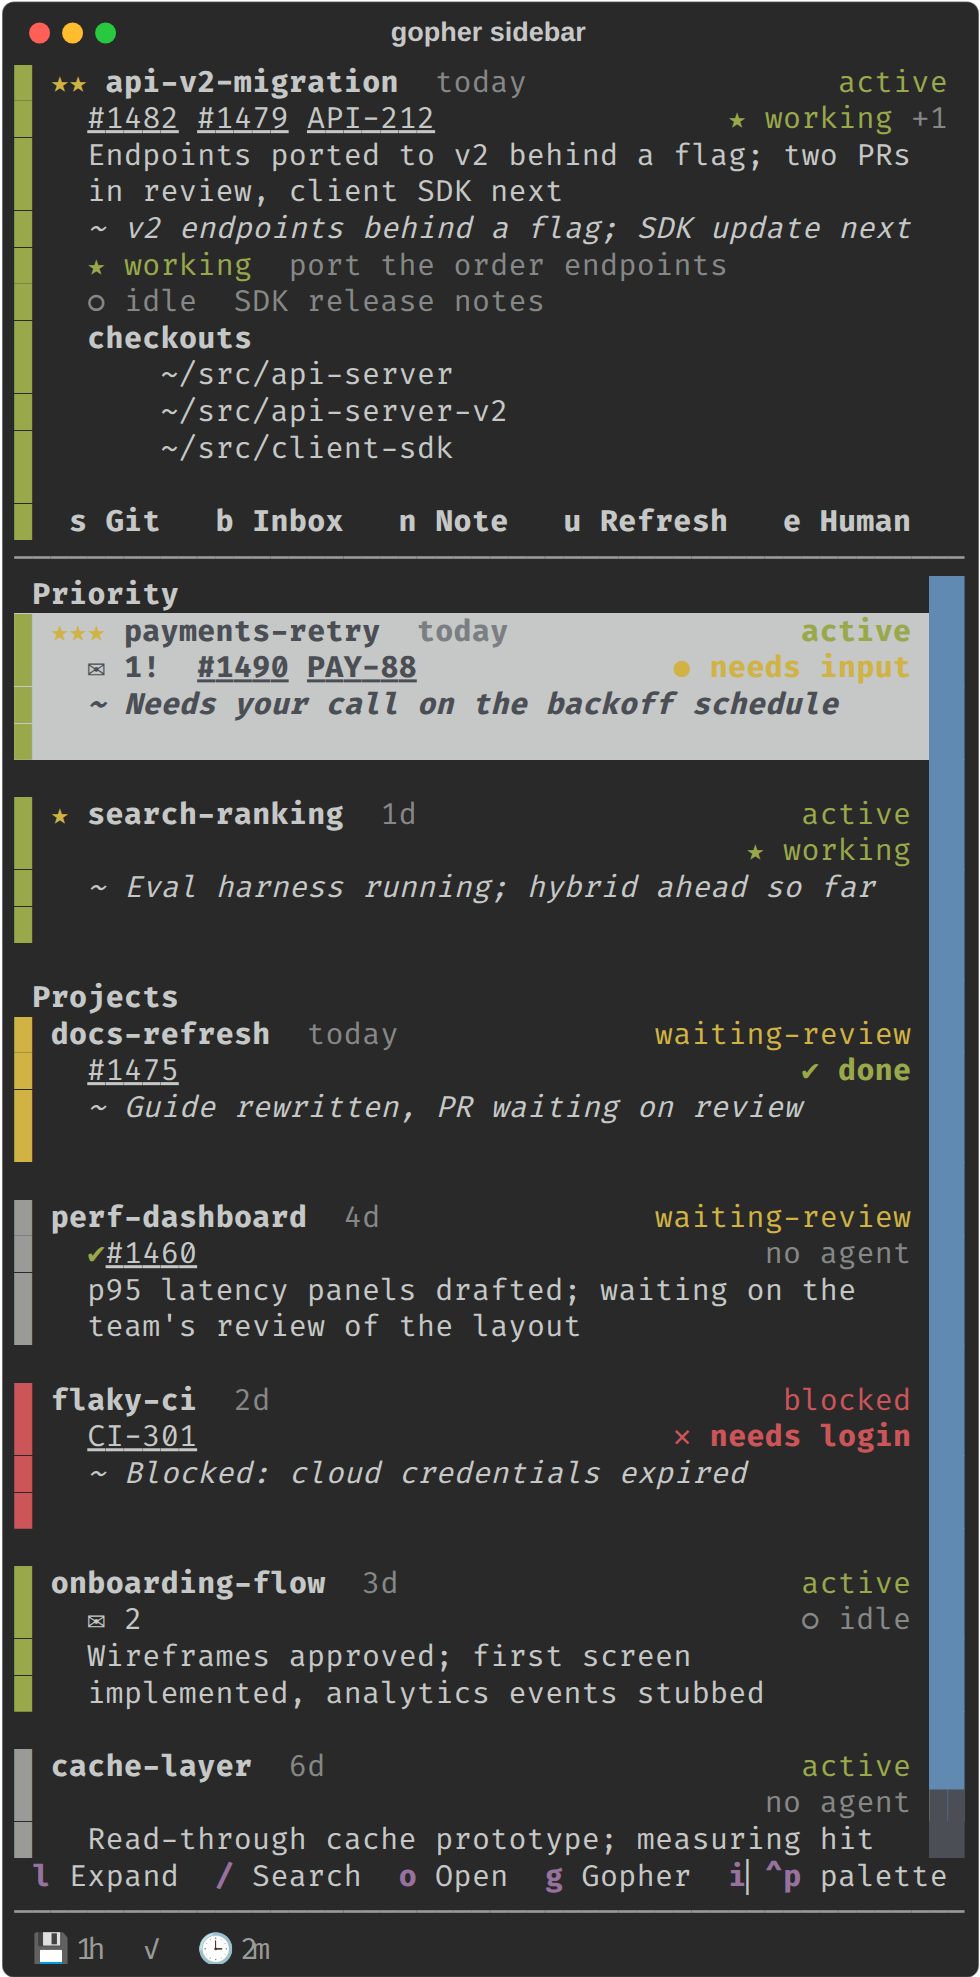
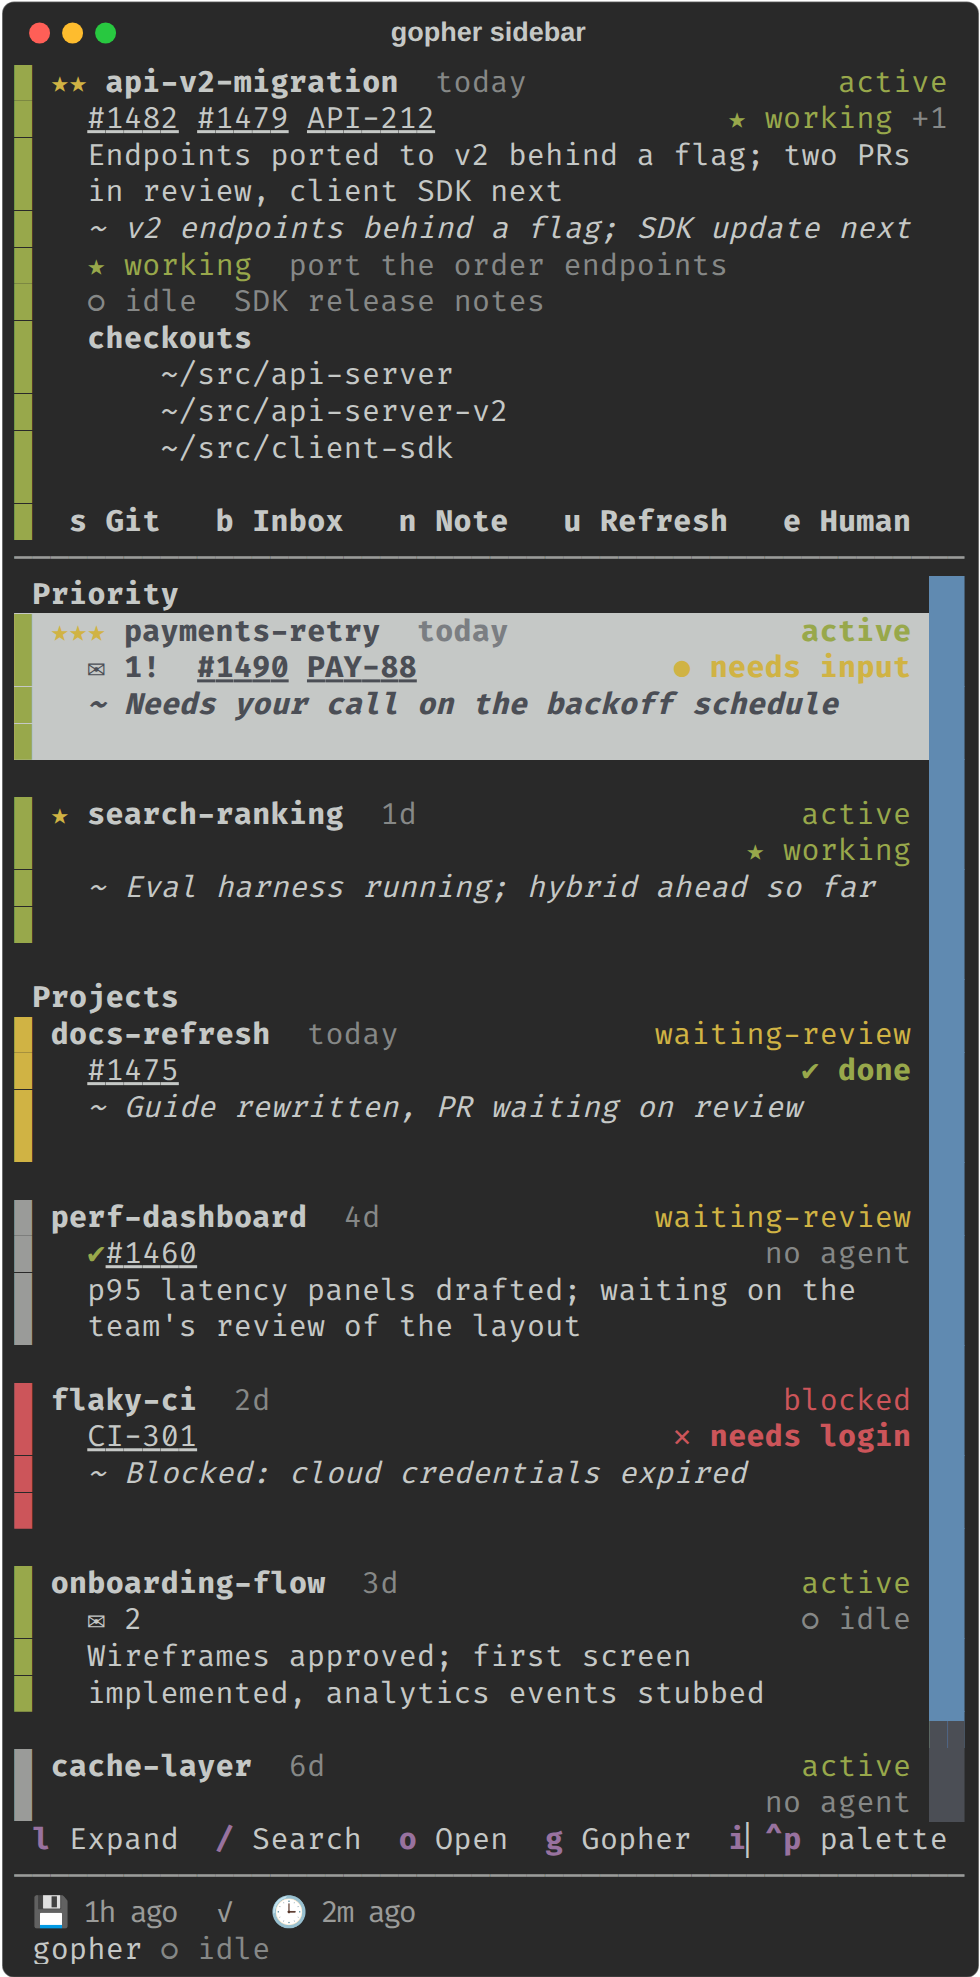
Release 0.1.4

Changed region(s): [[0.0, 0.8639, 1.0, 1.0]]

diff --git a/README.md b/README.md
@@ -88,7 +88,7 @@ Developed on Linux; macOS is untested. gopher has had one user so far, so expect
 
 ```bash
 # 1. Install
-uv tool install git+https://github.com/Peaches491/claude-gopher@v0.1.3
+uv tool install git+https://github.com/Peaches491/claude-gopher@v0.1.4
 
 # 2. Create a root, install the Claude Code hooks, and let Claude interview you about your setup
 gopher setup                    # asks where the root goes (default ~/workon)
